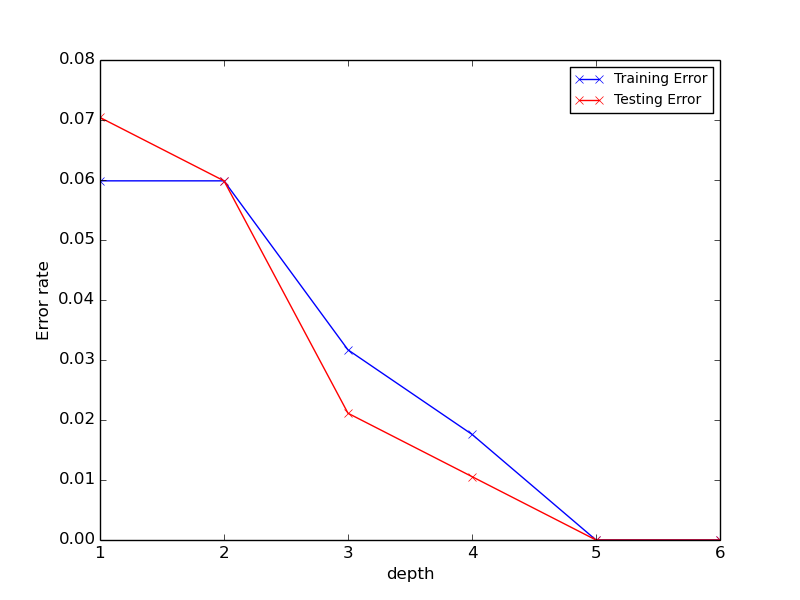
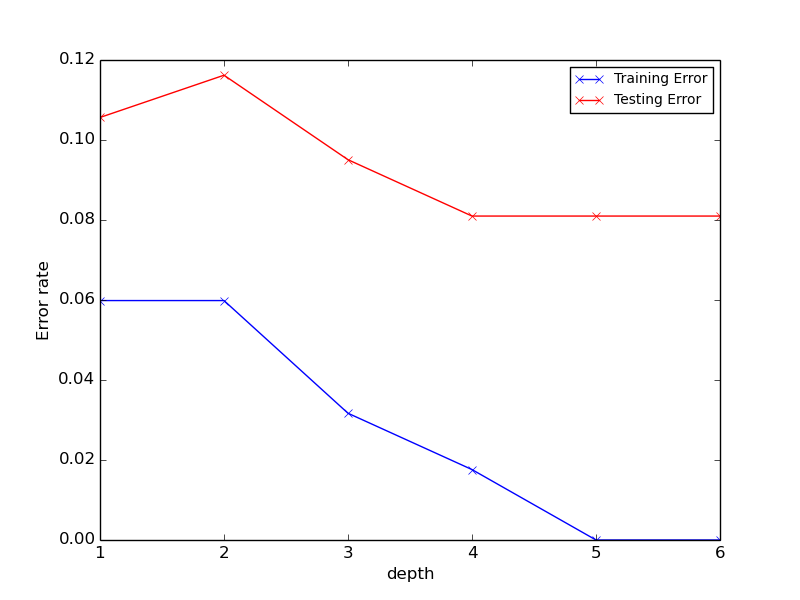
Fixed testing

diff --git a/Assn2/decision_tree.py b/Assn2/decision_tree.py
@@ -2,7 +2,7 @@
 # @Date:   2018-04-29T16:41:18-07:00
 # @Filename: decision_tree.py
 # @Last modified by:   Arthur Shing
-# @Last modified time: 2018-04-30T19:11:20-07:00
+# @Last modified time: 2018-04-30T19:42:57-07:00
 
 import matplotlib
 matplotlib.use('Agg')
@@ -134,7 +134,7 @@ def getError(theta, column, data):
     for s in smaller:
         if (s[0] == 1):
             numberWrong += 1
-    return numberWrong
+    return (numberWrong, greater, smaller)
 
 def getLeftError(theta, column, data):
     numberWrong = 0
@@ -170,6 +170,7 @@ def getRightError(theta, column, data):
     else:
         return numberWrong
 
+
 def doDepth(data, currentDepth, depth):
     rootNode = Node()
     rootNode.depth = currentDepth
@@ -187,6 +188,25 @@ def doDepth(data, currentDepth, depth):
             return rootNode
     else:
         return rootNode
+
+def testData(data, root):
+    numberWrong = 0
+    (theta, col) = root.getVals()
+    (wrong, g, s) = getError(theta, col, data)
+    if (root.isLeaf()):
+        return numberWrong
+    elif (root.left.isLeaf() and root.right.isLeaf()):
+        return wrong
+    elif root.left.isLeaf():
+        numberWrong += getLeftError(theta, col, data)
+        numberWrong += testData(s, root.right)
+    elif root.right.isLeaf():
+        numberWrong += getRightError(theta, col, data)
+        numberWrong += testData(g, root.left)
+    else:
+        numberWrong += testData(g, root.left)
+        numberWrong += testData(s, root.right)
+    return numberWrong
 
 def getTreeError(root):
     numberWrong = 0
@@ -228,10 +248,9 @@ def main():
         train.append(rate)
 
         print "Testing data with a depth of %d" % depth
-        root = doDepth(dataTest, 0, depth)
-        numWrong = getTreeError(root)
-        print "Number Wrong: %d / %d" % (numWrong, dataTest.shape[0])
-        rate = float(numWrong) / dataTest.shape[0]
+        n = testData(dataTest, root)
+        print "Test Wrong: %d / %d" % (n, dataTest.shape[0])
+        rate = float(n) / dataTest.shape[0]
         test.append(rate)
 
     plt.plot(range(1,7), train, 'bx-', label="Training Error")
